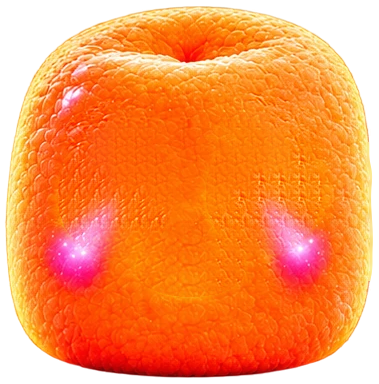
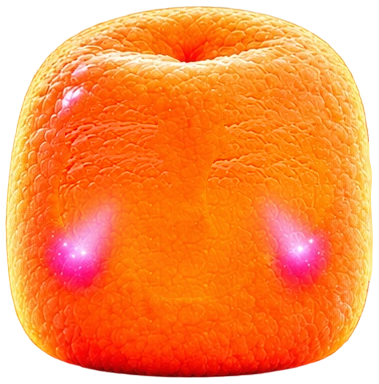
Fix verified rig, engine and asset defects in the living Mallows
From the verification pass (confirmed by independent skeptics or checked
directly against the code):
- Rest face: gaze and blinks no longer fade out the approved art; leaving
  rest is a hard cut and returning fades in only once converged, so the
  approved and animated faces never show double. Approved art is composited
  source-atop so silhouette edges keep the approved alpha.
- Face-cleaned bodies regenerated with band-based inpainting (one continuous
  donor offset per band): no repeating tile pattern, no old mouth arcs on
  Pipzi/Zuzu, no leftover Glitzi lid outlines. Alpha byte-identical.
- Glitzi: glitch lines drawn under the eyes, no permanent magenta blush.
- Lid shadow clipped to the eyeball; lower-lip highlight only on open mouths;
  Pipzi/Zuzu mouths no longer sit lower than the approved mouth.
- New 'disappointed' expression; 'scared' loses the smile; ease-out intensity
  so mild negative feelings clearly change the face; Blubi, Loomi and Noomi
  get their own angry/jealous/frustrated faces.
- Engine: substepped springs (stable on slow frames), double tap no longer
  also fires a tap, a pause before release is not a flick, rigs destroyed
  before loading don't leak, non-finite intensity is ignored, framing by body
  area, interactive canvas exposed as a button with usage hint.

Claude-Session: https://claude.ai/code/session_01Y2V1FW7DstxbdTeBWsM5Jj

diff --git a/hushmallow/src/mallows/rig.js b/hushmallow/src/mallows/rig.js
@@ -93,7 +93,7 @@ export class MallowRig {
     this.container = container;
     this.canvas = document.createElement('canvas');
     this.canvas.className = 'mallow-canvas';
-    this.canvas.setAttribute('role', 'img');
+    this.canvas.setAttribute('role', this.opts.interactive ? 'button' : 'img');
     this.canvas.style.cssText = 'display:block;width:100%;height:100%;background:transparent;';
     if (this.opts.interactive) {
       this.canvas.style.touchAction = 'none';
@@ -150,6 +150,7 @@ export class MallowRig {
     this._label();
 
     this.loaded = loadMallowAssets(this.id).then((assets) => {
+      if (this.destroyed) return this;
       this.assets = assets;
       this.ready = true;
       this._resize();
@@ -168,7 +169,7 @@ export class MallowRig {
   setEmotion(emotion, intensity = 0.7, opts = {}) {
     const mix = typeof emotion === 'string' ? { [emotion]: 1 } : { ...emotion };
     this.mix = mix;
-    this.intensity = clamp(intensity, 0, 1);
+    this.intensity = Number.isFinite(+intensity) ? clamp(+intensity, 0, 1) : 0.7;
     this.stage = opts.stage || null;
     this.target = resolveExpression(this.mallow, mix, this.intensity, opts.extra || null);
     if (opts.instant) { Object.assign(this.val, this.target); }
@@ -247,7 +248,9 @@ export class MallowRig {
     const [bx0, by0, bx1, by1] = m.bodyBox;
     const bw = bx1 - bx0, bh = by1 - by0;
     // consistent framing: every Mallow's body occupies the same width share
-    this.S = Math.min(W * this.opts.fit / bw, H * (this.opts.fit + 0.06) / bh);
+    // consistent framing: every Mallow gets the same body *area* on screen
+    const ref = Math.sqrt(bw * bh);
+    this.S = Math.min(W * this.opts.fit / ref, H * (this.opts.fit + 0.06) / ref);
     this.CX = W / 2;
     this.BASE = H * this.opts.baseline;
     // skin resolution follows on-screen size (cheap for thumbnails)
@@ -261,7 +264,8 @@ export class MallowRig {
   }
 
   _label() {
-    this.canvas.setAttribute('aria-label', this.describe ? this.describe() : this.mallow.name);
+    const d = this.describe ? this.describe() : this.mallow.name;
+    this.canvas.setAttribute('aria-label', this.opts.interactive ? `${d}. Tap, double tap, hold to squeeze, or drag.` : d);
   }
 
   _shouldRun() {
@@ -316,7 +320,8 @@ export class MallowRig {
       c.style.cursor = 'grab';
       const held = this.time - pr.t0;
       const dist = Math.hypot(pr.x - pr.x0, pr.y - pr.y0);
-      const speed = Math.hypot(pr.vx, pr.vy);
+      // a pause before letting go means no fling, whatever the last velocity was
+      const speed = this.time - pr.lastT > 0.08 ? 0 : Math.hypot(pr.vx, pr.vy);
       // elastic recovery: release the stored squash / stretch as velocity
       this.body.squashV -= this.body.press * 7;
       this.body.shearV += clamp(-(pr.x - pr.x0) / this.W, -0.5, 0.5) * 6;
@@ -326,7 +331,7 @@ export class MallowRig {
       } else if (pr.squeezed) {
         this.react('release');
       } else if (held < 0.35 && dist < 14) {
-        if (this.time - this.lastTap < 0.33) { this.lastTap = 0; this.react('doubleTap'); }
+        if (this.time - this.lastTap < 0.33) { this.lastTap = 0; this._pendingTap = 0; this.react('doubleTap'); }
         else { this.lastTap = this.time; this._pendingTap = this.time; }
       } else {
         this.opts.audio?.play?.(this.id, 'release');
@@ -372,13 +377,17 @@ export class MallowRig {
     const goal = this._composeTargets(dt);
     // spring every parameter toward its goal
     const G = rm ? GROUPS_CALM : GROUPS;
+    this._dt = dt;
+    // fixed small substeps keep stiff springs (gaze) stable on slow frames
+    const n = Math.max(1, Math.ceil(dt / (1 / 120)));
+    const h = dt / n;
     for (const k of PARAM_NAMES) {
       const [kS, kD] = G[PARAMS[k][1]];
-      const x = this.val[k], v = this.vel[k];
-      const a = kS * (goal[k] - x) - kD * v;
-      const nv = v + a * dt;
-      this.vel[k] = nv;
-      this.val[k] = x + nv * dt;
+      let x = this.val[k], v = this.vel[k];
+      const g = goal[k];
+      for (let i = 0; i < n; i++) { v += (kS * (g - x) - kD * v) * h; x += v * h; }
+      this.vel[k] = v;
+      this.val[k] = x;
     }
     this._updateBody(dt, goal);
     this._updateCycles(dt);
@@ -667,7 +676,12 @@ export class MallowRig {
     const blinkAmt = this._blinkAmount();
     const animated = this.id === 'zuzu' || this.id === 'glitzi' || v.tears > 0.01 || v.sweat > 0.01 ||
       v.mouthTremble > 0.01 || v.heartEyes > 0.01 || v.sparkle > 1.05 || v.wet > 0.05;
-    const sig = this._faceSignature(blinkAmt);
+    // rest state for the approved-art cross-fade
+    const blinking = blinkAmt > 0.01 && v.eyeOpen > 0.05;
+    const atRest = !blinking && this._deviation(v) < 0.03;
+    const prevRest = this.restMix ?? 1;
+    this.restMix = atRest ? Math.min(1, prevRest + (this._dt || 0.016) * 7) : 0;
+    const sig = this._faceSignature(blinkAmt) + '|' + this.restMix.toFixed(2);
     if (!animated && !this.skinDirty && sig === this._lastSig) return;
     this._lastSig = sig;
     this.skinDirty = false;
@@ -684,20 +698,23 @@ export class MallowRig {
     const f = m.face;
     const P = { ...v };
     P.blink = blinkAmt;
+    // Glitzi's energised/dimmed glitch lines sit on the body, under the eyes
+    if (this.id === 'glitzi') drawGlitchLines(ctx, this, P);
     for (const side of ['L', 'R']) drawEye(ctx, this, f, side, P);
     for (const side of ['L', 'R']) drawBrow(ctx, f, side, P);
     drawMouth(ctx, f, P, this.time);
 
-    // the untouched approved artwork, whenever the face is at rest
-    if (this.opts.pristine) {
-      const nb = 1 - smoothstep(0.02, 0.1, this._deviation(P));
-      if (nb > 0.004) {
-        ctx.globalAlpha = nb;
-        ctx.drawImage(A.original, 0, 0);
-        ctx.globalAlpha = 1;
-      }
+    // the untouched approved artwork, whenever the face is at rest. Gaze and
+    // blinks don't count as "not at rest"; leaving rest is a hard cut and
+    // returning only fades in once the face has converged, so the two faces
+    // never overlap visibly.
+    if (this.opts.pristine && this.restMix > 0.004) {
+      ctx.globalAlpha = this.restMix;
+      ctx.globalCompositeOperation = 'source-atop';   // keep the approved alpha, no edge build-up
+      ctx.drawImage(A.original, 0, 0);
+      ctx.globalCompositeOperation = 'source-over';
+      ctx.globalAlpha = 1;
     }
-    if (this.id === 'glitzi') drawGlitchLines(ctx, this, P);
     drawCheeks(ctx, f, P, this.time);
     drawTearsAndSweat(ctx, this, f, P);
     ctx.globalCompositeOperation = 'source-over';
@@ -715,8 +732,8 @@ export class MallowRig {
 
   _deviation(P) {
     const b = this.base;
-    let d = P.blink * 0.5;
-    const W = { eyeOpen: 1, closedCurve: 0.25, lidTop: 1, lidBot: 1, lidSlant: 0.6, wink: 1, lookX: 0.35, lookY: 0.35,
+    let d = 0;
+    const W = { eyeOpen: 1, closedCurve: 0.25, lidTop: 1, lidBot: 1, lidSlant: 0.6, wink: 1,
       irisScale: 1, eyeScale: 1.2, heartEyes: 1, browAlpha: 0.8, browY: 0.5, browTilt: 0.5, browAsym: 0.5,
       mouthSmile: 0.6, mouthOpen: 0.7, mouthWidth: 1, mouthRound: 0.8, mouthWave: 0.8, mouthSkew: 0.6, mouthPout: 0.8,
       tongue: 1, cheekPuff: 0.5, wet: 0.5, tears: 0.5, sweat: 0.5, blushLines: 0.5 };
@@ -897,7 +914,10 @@ function drawEye(ctx, rig, f, side, P) {
       ctx.ellipse(g.ex, g.ey, g.rx * 0.985, g.ry * 0.985, 0, 0, Math.PI * 2);
       ctx.stroke();
     }
-    // lid occlusion shadow under the upper lid
+    // lid occlusion shadow under the upper lid (on the eyeball only)
+    ctx.beginPath();
+    ctx.ellipse(g.ex, g.ey, g.rx, g.ry, 0, 0, Math.PI * 2);
+    ctx.clip();
     ctx.lineCap = 'round';
     for (const [w, a] of [[g.ry * 0.55, 0.08], [g.ry * 0.32, 0.1], [g.ry * 0.14, 0.14]]) {
       ctx.strokeStyle = hexA(f.line, a);
@@ -956,8 +976,9 @@ function drawMouth(ctx, f, P, time) {
   const r = clamp(P.mouthRound, 0, 1);
   const pout = clamp(P.mouthPout, 0, 1);
   const W = M.w * clamp(P.mouthWidth, 0.3, 1.5) * (1 - 0.5 * r) * (1 - 0.45 * pout);
-  const sagBase = M.sag || M.w * 0.2;
-  const sagS = sagBase * s * (1 - 0.6 * r);
+  const oc0 = clamp(o, 0, 1);
+  const sagBase = M.sag ?? M.w * 0.2;
+  const sagS = (M.sag === 0 ? M.w * 0.18 * (1 - oc0) : sagBase) * s * (1 - 0.6 * r);
   const tremble = P.mouthTremble * 1.6 * Math.sin(time * 31) * (1 + Math.sin(time * 7));
   const skewY = P.mouthSkew * M.w * 0.1;
   const x0 = M.x - W / 2 + P.mouthSkew * M.w * 0.04, x1 = M.x + W / 2 + P.mouthSkew * M.w * 0.04;
@@ -1034,8 +1055,8 @@ function drawMouth(ctx, f, P, time) {
     ctx.strokeStyle = M.style === 'line' || M.style === 'crease' ? f.line : shade(M.inside, -0.3);
     ctx.lineWidth = Math.max(2, M.lw * 0.45);
     region(); ctx.stroke();
-    // lit lower lip
-    ctx.strokeStyle = 'rgba(255,255,255,0.22)';
+    // lit lower lip (only on a properly open mouth)
+    ctx.strokeStyle = Lo - U > 10 ? 'rgba(255,255,255,0.22)' : 'rgba(255,255,255,0)';
     ctx.lineWidth = Math.max(1.5, M.lw * 0.25);
     ctx.beginPath();
     ctx.moveTo(lerp(x0, x1, 0.25), cy + Lo * 0.98 + M.lw * 0.45);

diff --git a/hushmallow/src/mallows/expressions.js b/hushmallow/src/mallows/expressions.js
@@ -76,12 +76,15 @@ export const PRESETS = {
     mouthSkew: -0.5, tiltBias: -10, fxQuestion: 0.7, spin: 0.6, spinJitter: 0.6 },
   anxious: { mouthOpen: 0.1, eyeOpen: 1.1, irisScale: 0.8, browY: 0.35, browTilt: 0.8, browAlpha: 0.8, mouthSmile: -0.35, mouthWave: 0.8,
     mouthWidth: 0.75, sweat: 0.8, tremble: 0.4, gazeDart: 1, blinkRate: 2.4, squashBias: 0.03, spinJitter: 0.8, glitch: 0.9 },
-  scared: { eyeOpen: 1.3, eyeScale: 1.15, irisScale: 0.62, browY: 0.8, browTilt: 0.9, browAlpha: 1, mouthRound: 0.7,
+  scared: { mouthSmile: -0.35, eyeOpen: 1.3, eyeScale: 1.15, irisScale: 0.62, browY: 0.8, browTilt: 0.9, browAlpha: 1, mouthRound: 0.7,
     mouthOpen: 0.45, mouthWidth: 0.6, mouthTremble: 0.6, sweat: 0.6, tremble: 0.8, squashBias: 0.1, leanBias: -0.4,
     fxExclaim: 0.3, glitch: 1.1 },
   sad: { eyeOpen: 0.6, lidTop: 0.35, lidSlant: -0.75, lookY: 0.45, wet: 1, tears: 0.6, browTilt: 0.9, browAlpha: 0.9,
     browY: -0.1, mouthSmile: -0.8, mouthOpen: 0.06, mouthTremble: 0.4, mouthWidth: 0.8, blush: 0.7, droop: 0.7,
     breath: 0.8, breathRate: 0.15, squashBias: 0.06, fxRain: 0.3, sparkle: 0.6, glitch: 0.15 },
+  disappointed: { eyeOpen: 0.58, lidTop: 0.42, lookY: 0.55, lidSlant: -0.35, browTilt: 0.6, browAlpha: 0.6, browY: -0.12,
+    mouthSmile: -0.55, mouthOpen: 0, mouthWidth: 0.85, mouthSkew: 0.15, droop: 0.55, sighCycle: 0.7, blush: 0.8,
+    sparkle: 0.6, glitch: 0.3, spin: 0.08 },
   lonely: { mouthOpen: 0, eyeOpen: 0.55, lidTop: 0.3, lidSlant: -0.4, lookX: -0.6, lookY: 0.3, wet: 0.55, browTilt: 0.6, browAlpha: 0.6,
     mouthSmile: -0.45, mouthWidth: 0.7, droop: 0.5, shrink: 0.35, breath: 0.7, sparkle: 0.6 },
   guilty: { mouthOpen: 0, eyeOpen: 0.5, lidTop: 0.4, lookY: 0.85, lookX: 0.3, browTilt: 0.7, browAlpha: 0.7, browY: -0.2, mouthSmile: -0.4,
@@ -142,6 +145,10 @@ export const PERSONALITY = {
       loved: { blush: 2.3, fxHeart: 0.9 },
       lonely: { tears: 0.5, shrink: 0.45 },
       comforted: { blush: 1.9, glow: 0.8 },
+      // beautifully dramatic: hurt-angry, wobbly and teary rather than fierce
+      angry: { browTilt: -1.4, browY: -0.7, browAlpha: 1, mouthPout: 0.75, mouthTremble: 0.5, wet: 0.7, cheekPuff: 1, blush: 1.6, glitch: 0 },
+      jealous: { lookX: -0.8, mouthPout: 1, wet: 0.5, browTilt: 0.3, cheekPuff: 0.7 },
+      frustrated: { browTilt: -1.2, browAlpha: 1, mouthWave: 0.8, cheekPuff: 1, mouthTremble: 0.3 },
     },
   },
   zuzu: {
@@ -189,6 +196,10 @@ export const PERSONALITY = {
       scared: { eyeOpen: 0.9, tremble: 0.3 },
       happy: { bounce: 0.22, closedCurve: -1, mouthOpen: 0.25, eyeOpen: 0 },
       excited: { bounce: 0.5 },
+      // unbothered, even when bothered: a flat slit and a sideways mouth
+      angry: { eyeOpen: 0.42, lidTop: 0.55, lidSlant: 0.6, browTilt: -1.3, browY: -0.5, browAlpha: 1, mouthSmile: -0.4, mouthSkew: 0.7, cheekPuff: 0.3, tremble: 0, fxSteam: 0.2 },
+      jealous: { eyeOpen: 0.45, lidTop: 0.6, lookX: 0.9, mouthSkew: 0.8, browAsym: 0.8, mouthPout: 0.4 },
+      frustrated: { eyeOpen: 0.4, lidTop: 0.55, browTilt: -1, browAlpha: 1, sighCycle: 1.4, mouthSkew: 0.5, fxSigh: 0.6 },
     },
   },
   noomi: {
@@ -201,6 +212,10 @@ export const PERSONALITY = {
       calm: { float: 0.5, fxZzz: 0.15 },
       happy: { closedCurve: -1, float: 0.25, eyeOpen: 0 },
       bored: { yawnCycle: 0.6 },
+      // grumpy-sleepy: woken up cross
+      angry: { eyeOpen: 0.5, lidTop: 0.6, lidSlant: 0.8, browTilt: -1.4, browY: -0.6, browAlpha: 1, mouthPout: 0.9, cheekPuff: 0.8, fxZzz: 0, fxSteam: 0.3 },
+      jealous: { eyeOpen: 0.45, lidTop: 0.6, lookX: 0.85, mouthPout: 0.9, browTilt: -0.4, browAlpha: 0.8 },
+      frustrated: { eyeOpen: 0.3, lidTop: 0.7, browTilt: -1.1, browAlpha: 1, yawnCycle: 0, sighCycle: 1.2, mouthPout: 0.6, cheekPuff: 0.9 },
     },
   },
 };
@@ -247,7 +262,8 @@ export function resolveExpression(mallow, mix, intensity = 0.7, extra = null) {
     const wi = w / totalW;
     for (const [k, v] of Object.entries(target)) {
       if (!(k in base)) continue;
-      let amt = intensity;
+      // ease-out: a mild feeling already reads clearly (no lingering grin)
+      let amt = 1 - (1 - intensity) * (1 - intensity);
       if (GATES[k]) amt *= smooth(GATES[k][0], GATES[k][1], intensity * (w / totalW > 0.3 ? 1 : 0.8));
       if (k === 'eyeOpen' && pers.eyeGate && v > base.eyeOpen) {
         // closed-eyed Mallows keep their eyes shut for soft feelings and only

diff --git a/hushmallow/src/data/emotions.js b/hushmallow/src/data/emotions.js
@@ -6,7 +6,7 @@ export const FACE_PRESETS = [
   'neutral', 'happy', 'excited', 'playful', 'loved', 'proud', 'hopeful', 'calm', 'relieved',
   'curious', 'surprised', 'awe', 'confused', 'anxious', 'scared', 'sad', 'lonely', 'guilty',
   'embarrassed', 'jealous', 'disgusted', 'angry', 'frustrated', 'exhausted', 'bored',
-  'determined', 'comforted',
+  'determined', 'comforted', 'disappointed',
 ];
 
 export const FAMILIES = [
@@ -229,7 +229,7 @@ taken-advantage-of|~Taken advantage of|anger|loneliness|-.65|.55|angry:.5,sad:.3
 sadness||sadness||-.7|.25|sad:1|.55|sad;unhappy;upset;feeling down;feeling low;low mood;down in the dumps|A heavy, slowed-down feeling when something hurts or is missing.
 sorrow||sadness||-.75|.2|sad:1|.65|sorrowful;woeful|A deep, quiet sadness that sits with you.
 grief||sadness|loneliness|-.85|.35|sad:.8,lonely:.2|.8|grieving;bereaved;bereavement|The ache of losing someone or something you loved.
-disappointment||sadness|anger|-.55|.3|sad:.7,frustrated:.3|.5|disappointed;disappointing;let down;gutted;bummed|When what happened falls short of what you hoped for.
+disappointment||sadness|anger|-.55|.3|disappointed:.75,sad:.25|.5|disappointed;disappointing;let down;gutted;bummed|When what happened falls short of what you hoped for.
 hurt||sadness|anger|-.65|.45|sad:.8,angry:.2|.6|hurting;wounded;stung;hurt feelings|Pain from something said or done, often by someone who matters.
 heartache||sadness|love|-.7|.35|sad:.7,lonely:.3|.65|aching heart;heartsore|A deep ache in the chest about someone or something you love.
 despair||sadness|fear|-.95|.4|sad:.8,exhausted:.2|.85|despairing;despondent;in despair|Feeling there's no way through, and hope has gone quiet.

diff --git a/hushmallow/src/mallows/registry.js b/hushmallow/src/mallows/registry.js
@@ -54,7 +54,7 @@ export const MALLOWS = {
       mouth: { x: 198, y: 281, w: 148, sag: 15, lw: 7, style: 'crease',
         inside: '#140820', tongue: '#d4406f' },
       cheeks: { L: [92, 252, 28], R: [292, 248, 28], colour: '#ff3df2', base: 0 },
-      neutral: { eyeOpen: 1, lidTop: 0.4, lidSlant: -0.12, lookX: 0.55, lookY: -0.35, mouthSmile: -0.75, glitch: 0.6 },
+      neutral: { eyeOpen: 1, lidTop: 0.4, lidSlant: -0.12, lookX: 0.55, lookY: -0.35, mouthSmile: -0.75, glitch: 0.6, blush: 0 },
     },
   },
   blubi: {

diff --git a/hushmallow/tools/derive.py b/hushmallow/tools/derive.py
@@ -37,16 +37,18 @@ def erase_mask(name, shape):
             cv2.circle(m, (int(cx), int(cy)), int(f['r'] + 14), 1, -1)
         elif k == 'mouth':
             mm = masks[key].astype(np.uint8)
-            m |= cv2.dilate(mm, cv2.getStructuringElement(cv2.MORPH_ELLIPSE, (17, 17)))
+            m |= cv2.dilate(mm, cv2.getStructuringElement(cv2.MORPH_ELLIPSE, (27, 27)))
     if name == 'pipzi':
-        cv2.ellipse(m, (218, 328), (40, 22), 0, 0, 360, 1, -1)
+        cv2.ellipse(m, (218, 330), (52, 30), 0, 0, 360, 1, -1)
     if name == 'zuzu':
-        cv2.ellipse(m, (188, 300), (40, 20), 0, 0, 360, 1, -1)
+        cv2.ellipse(m, (188, 302), (52, 28), 0, 0, 360, 1, -1)
     if name == 'boppo':
         cv2.ellipse(m, (190, 268), (52, 26), 0, 0, 360, 1, -1)
     if name == 'glitzi':
         for (cx, cy, rx, ry) in GLITZI_EYES.values():
             cv2.ellipse(m, (cx, cy), (rx + 8, ry + 8), 0, 0, 360, 1, -1)
+            # heavy-lid outline above the sclera
+            cv2.ellipse(m, (cx, cy - ry + 2), (rx + 4, 16), 0, 180, 360, 1, -1)
         # carved frown crease
         pts = np.array([[112, 290], [118, 272], [160, 262], [198, 258], [238, 262],
                         [282, 271], [286, 292], [240, 288], [198, 284], [158, 288]], np.int32)
@@ -75,39 +77,77 @@ def inpaint(name, img, mask):
     body = cv2.erode(body, np.ones((15, 15), np.uint8))
     forbidden = cv2.dilate(mask, np.ones((9, 9), np.uint8))
     horiz_only = name == 'glitzi'   # keep glitch lines on their rows
-    B, STEP = 40, 20
-    win = np.outer(np.hanning(B + 2)[1:-1], np.hanning(B + 2)[1:-1]).astype(np.float32)
-    acc = np.zeros_like(high)
-    wsum = np.zeros((H, W), np.float32)
-    cands = []
-    for dx in range(-220, 221, 4):
-        for dy in range(-120, 121, 4):
-            if dx or dy:
-                cands.append((abs(dx) + abs(dy) * (6.0 if horiz_only else 1.4), dx, dy))
-    cands.sort()
     ok = body.astype(bool) & ~forbidden.astype(bool)
-    for y in range(0, H - B + 1, STEP):
-        for x in range(0, W - B + 1, STEP):
-            if not grow[y:y + B, x:x + B].any():
+    # One continuous donor offset per horizontal band of the mask (split into
+    # column chunks only when a band has no valid donor). A translated copy has
+    # no repeats and needs no window averaging, so texture contrast survives.
+    cands = []
+    for dx in range(-240, 241, 2):
+        for dy in range(-140, 141, 2):
+            if dx or dy:
+                cands.append((abs(dx) + abs(dy) * (8.0 if horiz_only else 1.3), dx, dy))
+    cands.sort()
+    hf = np.zeros_like(high)
+    wsum = np.zeros((H, W), np.float32)
+    BAND, OVER = 34, 10
+    gm = grow.astype(bool)
+    ys_all = np.nonzero(gm.any(1))[0]
+
+    def find(ys, xs):
+        for _, dx, dy in cands:
+            sy, sx = ys + dy, xs + dx
+            if sy.min() < 0 or sx.min() < 0 or sy.max() >= H or sx.max() >= W:
                 continue
-            found = None
-            for _, dx, dy in cands:
-                sy, sx = y + dy, x + dx
-                if sy < 0 or sx < 0 or sy + B > H or sx + B > W:
-                    continue
-                if ok[sy:sy + B, sx:sx + B].all():
-                    found = (sy, sx)
-                    break
-            if found is None:
-                continue
-            sy, sx = found
-            acc[y:y + B, x:x + B] += high[sy:sy + B, sx:sx + B] * win[..., None]
-            wsum[y:y + B, x:x + B] += win
-    hf = np.where(wsum[..., None] > 1e-3, acc / np.maximum(wsum, 1e-3)[..., None], 0)
-    # overlapping blending averages texture down; restore its contrast
-    ref = high[ok].std(0) + 1e-3
-    got = hf[grow.astype(bool)].std(0) + 1e-3
-    hf = hf * np.clip(ref / got, 1.0, 1.6)
+            if ok[sy, sx].all():
+                return dx, dy
+        return None
+
+    def place(y0, y1, x0, x1, depth=0):
+        sub = np.zeros_like(gm)
+        sub[y0:y1, x0:x1] = gm[y0:y1, x0:x1]
+        ys, xs = np.nonzero(sub)
+        if not len(ys):
+            return
+        off = find(ys, xs)
+        if off is None:
+            if x1 - x0 > 28 and depth < 6:
+                xm = (x0 + x1) // 2
+                place(y0, y1, x0, xm + 6, depth + 1)
+                place(y0, y1, xm - 6, x1, depth + 1)
+            return
+        dx, dy = off
+        # vertical feather inside the band overlap, horizontal at chunk edges
+        wy = np.ones(y1 - y0, np.float32)
+        r = min(OVER, (y1 - y0) // 2)
+        if r > 0:
+            ramp = np.linspace(0.05, 1, r)
+            wy[:r] = ramp
+            wy[-r:] = ramp[::-1]
+        wx = np.ones(x1 - x0, np.float32)
+        if depth > 0:
+            rx = min(6, (x1 - x0) // 2)
+            rampx = np.linspace(0.05, 1, rx)
+            wx[:rx] = rampx
+            wx[-rx:] = rampx[::-1]
+        w = (wy[:, None] * wx[None, :])[ys - y0, xs - x0]
+        hf[ys, xs] += high[ys + dy, xs + dx] * w[:, None]
+        wsum[ys, xs] += w
+
+    if len(ys_all):
+        y = ys_all.min()
+        while y <= ys_all.max():
+            y1 = min(H, y + BAND)
+            place(max(0, y - OVER), y1, 0, W)
+            y = y1 - OVER + OVER  # next band starts where this one ended
+    hf = np.where(wsum[..., None] > 1e-3, hf / np.maximum(wsum, 1e-3)[..., None], 0)
+    # match texture contrast to the ring of untouched body around the face
+    ring = cv2.dilate(mask, np.ones((41, 41), np.uint8)).astype(bool) & ~cv2.dilate(mask, np.ones((11, 11), np.uint8)).astype(bool) & (al > 0.98)
+    if ring.any():
+        k = np.clip(high[ring].std() / max(hf[gm].std(), 1e-3), 1.0, 1.3)
+        hf *= k
+    missing = gm & (wsum < 1e-3)
+    if missing.any():
+        print('  unfilled texture px', name, int(missing.sum()))
     filled = lowfill + hf
     # feathered blend back into the untouched artwork
     feather = cv2.GaussianBlur(grow.astype(np.float32), (0, 0), 1.6)
